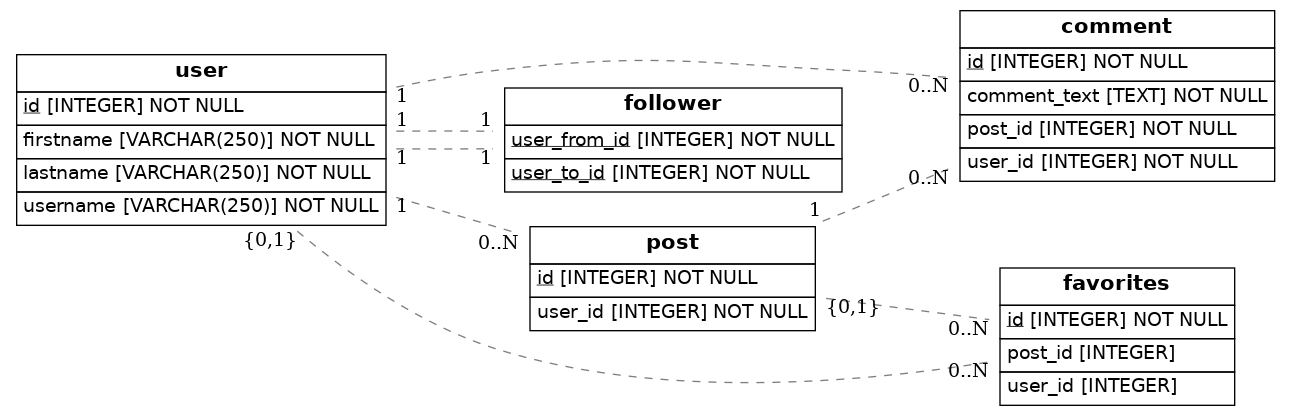
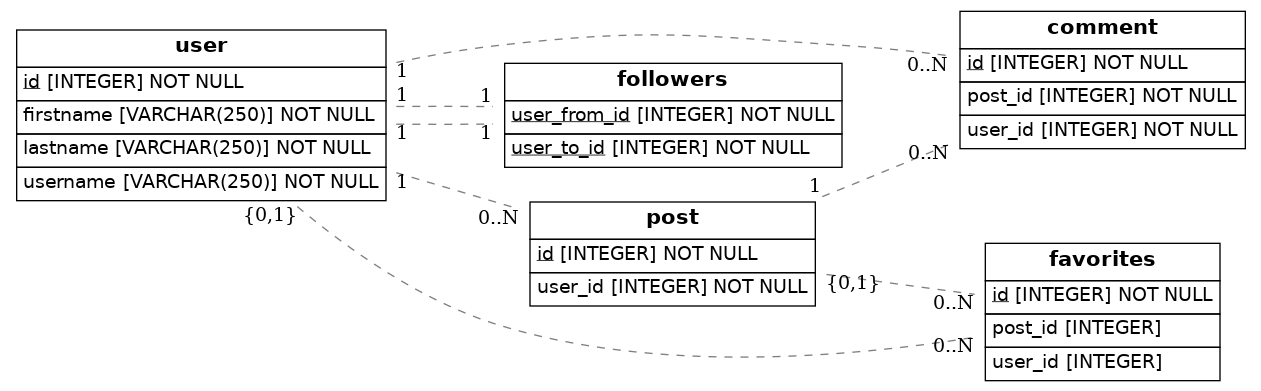
Completed

diff --git a/src/models.py b/src/models.py
@@ -31,8 +31,8 @@ class Post(Base):
      favorited_by = relationship("Favorites", back_populates="post")
     
 
-class Follower(Base):
-    __tablename__ = 'follower'
+class Followers(Base):
+    __tablename__ = 'followers'
     user_from_id = Column(Integer, ForeignKey('user.id'), primary_key=True)
     user_to_id = Column(Integer, ForeignKey('user.id'), primary_key=True)  
 
@@ -45,7 +45,7 @@ class Comment(Base):
     id = Column(Integer, primary_key=True)
     post_id = Column(Integer, ForeignKey('post.id'), nullable=False)
     user_id = Column(Integer, ForeignKey('user.id'), nullable=False)
-    comment_text = Column(Text, nullable=False)
+
 
     post = relationship("Post", back_populates="comments")
     user = relationship("User", back_populates="comments")
@@ -60,7 +60,7 @@ class Favorites(Base):
     post_id = Column(Integer, ForeignKey('post.id'))
 
     user = relationship("User", back_populates="favorites")
-    post = relationship("Post", back_populates="favorited_by")
+    post = relationship("Post", back_populates="favorites")
 
 ## Draw from SQLAlchemy base
 try:
